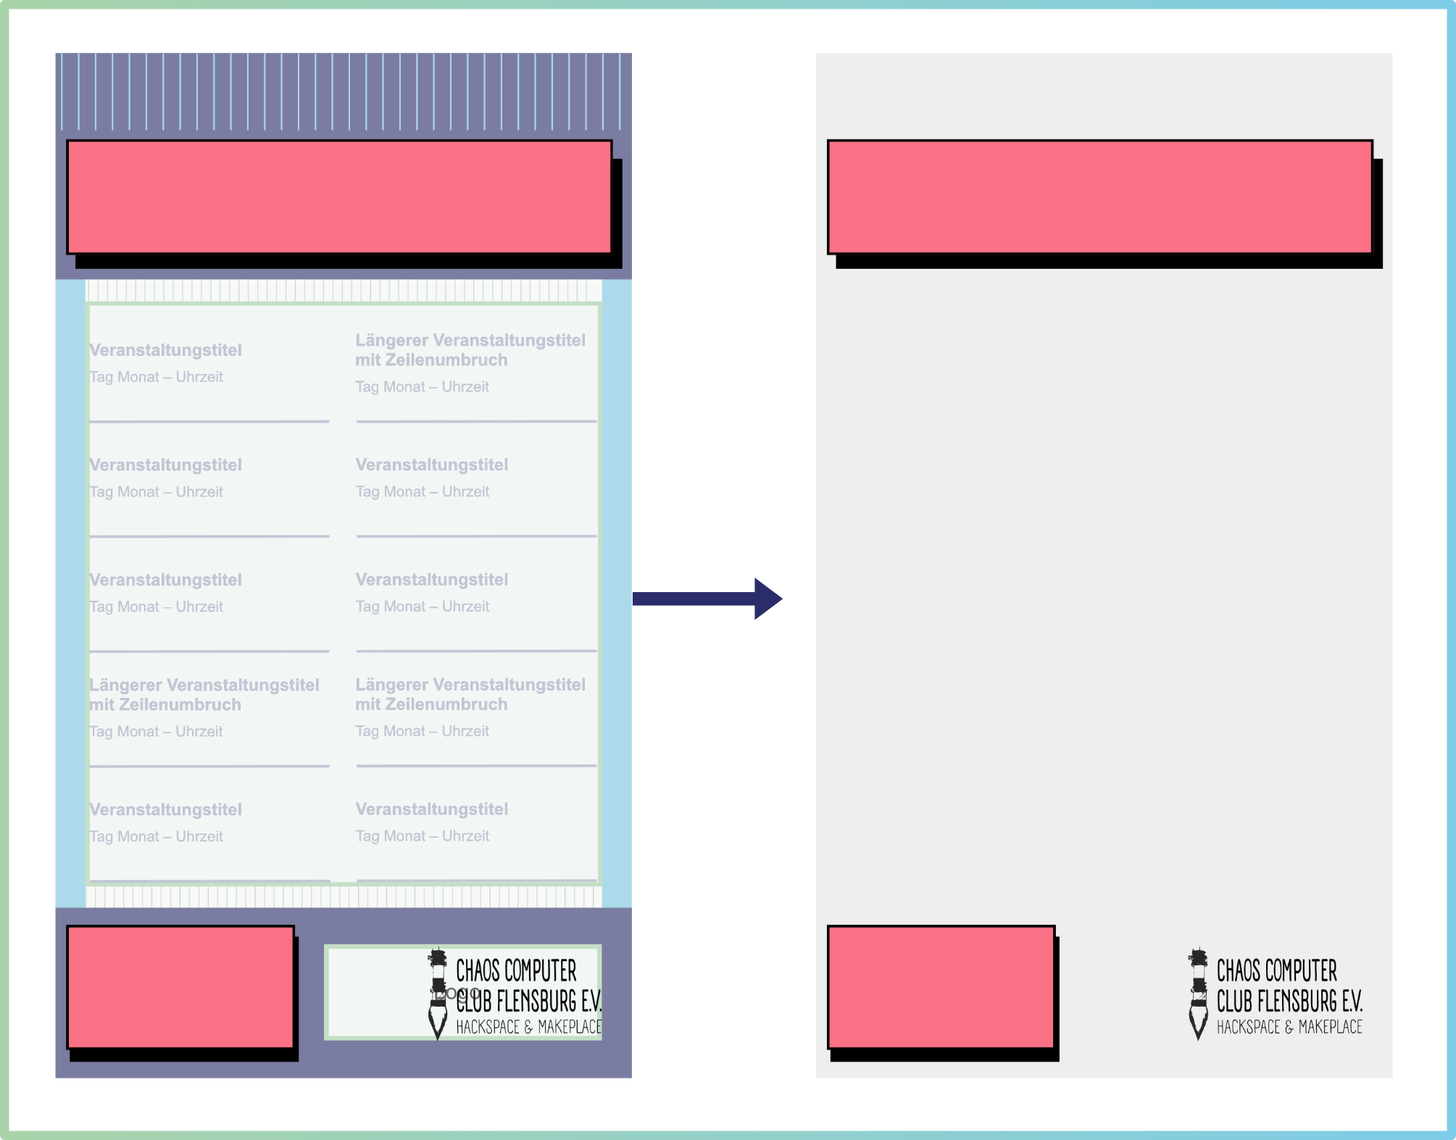
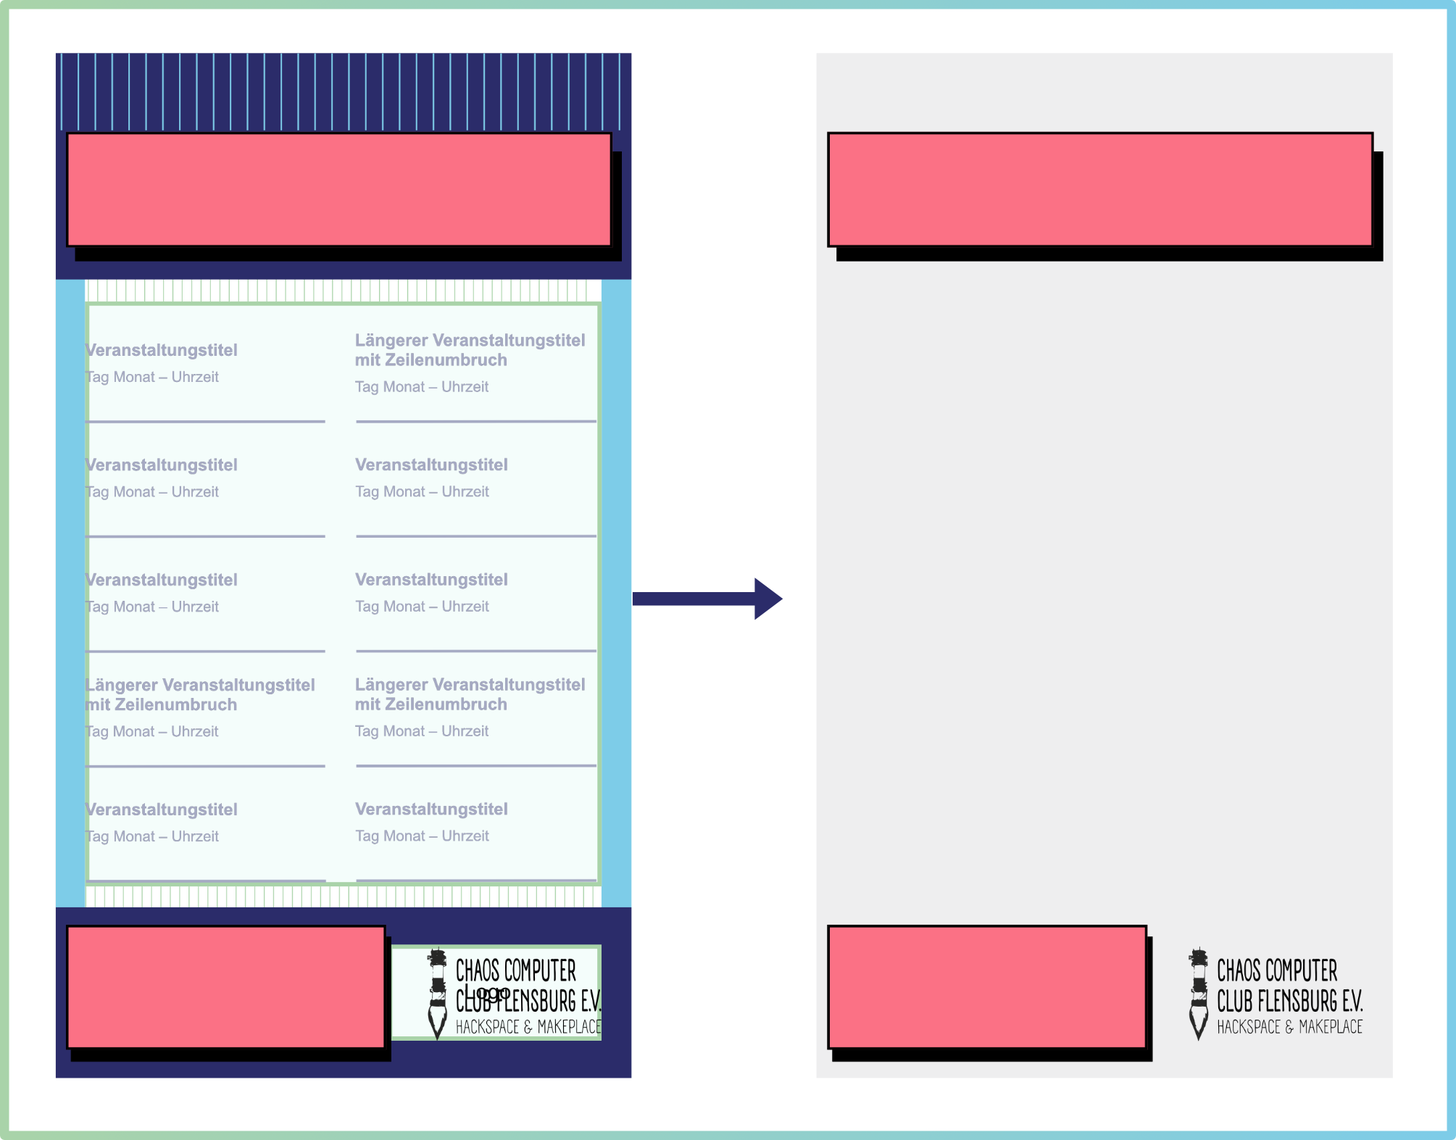
Ergänzung von Vorlagen, Gestaltungsrichtlinien und

diff --git a/docs/Werbemittelgenerator/README.md b/docs/Werbemittelgenerator/README.md
@@ -1,6 +1,6 @@
 [« Zurück](/get-started)
 # Werbemittelgenerator
-Mit dem Werbemittelgenerator können Sie visuelle Ankündigungen für Ihre Veranstaltungen erstellen – ideal zum Teilen in den sozialen Medien. Dies ist nicht nur ein effizienter Weg Werbemittel zu erstellen, durch die direkte Übernahme der Veranstaltungsinformationen vermeiden Sie auch Fehlerquellen bei der Informationsübertragung.
+Mit dem Werbemittelgenerator können Sie visuelle Ankündigungen für Ihre Veranstaltungen erstellen – ideal zum Teilen in den sozialen Medien und auf digitalen Anzeigen. Dies ist nicht nur ein effizienter Weg Werbemittel zu erstellen, durch die direkte Übernahme der Veranstaltungsinformationen vermeiden Sie auch Fehlerquellen bei der Informationsübertragung.
 
 Dieser Dokumentationsbereich führt Sie Schritt für Schritt durch die Funktionen und Gestaltungsmöglichkeiten.
 
@@ -38,7 +38,7 @@ Mit dem **Werbemittelgenerator für Veranstaltungsübersichten** können Sie bis
 Der Generator bietet verschiedene Optionen, um Ihre Übersicht individuell zu gestalten. Sofern Designvorgaben Ihrer Organisation im [Markenkit](#markenkit) hinterlegt wurden, werden diese automatisch geladen.
 
 1. **Format:**  
-   Wählen Sie zunächst das gewünschte Format – Social-Media-Post oder Story.
+   Wählen Sie zunächst das gewünschte Format – Social-Media-Post, Story oder Full DH.
 
 2. **Zeitraum:**  
    Definieren Sie den Zeitraum, für den die Veranstaltungen angezeigt werden sollen.  
@@ -55,7 +55,7 @@ Der Generator bietet verschiedene Optionen, um Ihre Übersicht individuell zu ge
    Alternativ können Logos auch direkt im Hintergrundbild frei platziert werden.
 
 5. **Überschrift (optional):**  
-   - Direkt im generator kann eine Überschrift eintragen werden. Das kann insbesondere sinnvoll sein, wenn Sie den Monat oder die Woche der Veranstaltungsübersicht in den Titel integrieren und sich dieser mit jeder Nutzung ändert.  
+   - Direkt im Generator kann eine Überschrift eintragen werden. Das kann insbesondere sinnvoll sein, wenn Sie den Monat oder die Woche der Veranstaltungsübersicht in den Titel integrieren und sich dieser mit jeder Nutzung ändert.  
    -  Sie können die **Textfarbe** anpassen, indem Sie auf das Farbsymbol klicken. Die Farbe kann über die Palette gewählt werden oder Sie fügen die RGB-, HEX- oder HSL-Werte der gewünschten Farbe ein. Sie können das Format über den Pfeil neben der Formatangabe ändern.
    <img src="./Bilder/Farbanpassung.png" alt="Beispiel Ausrichtungsprozess einer Veranstaltungsübersicht im Story-Format für den Chaos Computer Club Flensburg e. V. und entfernen der Vorlage vor dem Herunterladen" style="width:200px;">
    - Zudem können Sie aus verschiedenen **Schriftarten** wählen.
@@ -108,25 +108,35 @@ Wir empfehlen, mit einer passenden Positionierungvorlage zu arbeiten, an welcher
 **Positionierungsvorlagen für Veranstaltungsübersichten**
 * [PNG-Positionierungsvorlage für Social-Media-Beitröge herunterladen](/vorlagen/veranstaltungsuebersicht_ig_post_1080x1350.png)
 * [PNG-Positionierungsvorlage für Social-Media-Storys herunterladen](/vorlagen/veranstaltungsuebersicht_ig_story_1080x1920.png)
+* [PNG-Positionierungsvorlage für Full DH herunterladen](/vorlagen/veranstaltungsuebersicht_HD.png)
 
 
 **Positionierungsvorlagen für einzelne Veranstaltungsankündigungen**
 * [PNG-Positionierungsvorlage für Social-Media-Beiträge herunterladen](/vorlagen/veranstaltungsankuendigung_ig_post_1080x1350.png)
 * [PNG-Positionierungsvorlage für Social-Media-Storys herunterladen](/vorlagen/veranstaltungsankuendigung_ig_story_1080x1920.png)
+* [PNG-Positionierungsvorlage für Full DH herunterladen](/vorlagen/veranstaltungsankuendigung_HD.png)
 
 ### Hintergründe für Veranstaltungsübersichten gestalten
 
-Beim Generieren von Veranstaltungsübersichten werden **bis zu 10 Veranstaltungen** Ihrer Organisation im Bereich Veranstaltungsübersicht angezeigt. Sie haben aktuell die Möglichkeit zwischen den Formaten **Social-Media-Beitrag** (1080 x 1350 px) und **Social-Media-Story** (1080 x 1920 px) zu wählen. Diese können auf den gängigen Plattformen wie Instagram, WhatsApp & Co. veröffentlicht werden.
+Beim Generieren von Veranstaltungsübersichten werden **bis zu 10 Veranstaltungen** Ihrer Organisation im Bereich Veranstaltungsübersicht angezeigt. Sie haben aktuell die Möglichkeit zwischen den folgenden Formaten zu wählen:
+* **Social-Media-Beitrag** (1080 x 1350 px)
+* **Social-Media-Story** (1080 x 1920 px) 
+* **Full DH** (1920 x 1080 px).
+
+Diese eignen sich ideal für die gängigen Plattformen wie Instagram, WhatsApp & Co sowie digitale Anzeigetafeln.
 
 **Wichtig:** Sie sind grundsätzlich frei in der Gestaltung der Hintergründe, sollten jedoch unbedingt die [barrierefreien Gestaltungsprinzipien](/Barrierefreiheit/) berücksichtigen. 
 
 Nachfolgend visualisieren die Gestaltungsvorlagen, wie unser Generator die Inhalte platziert.
 
-**Social-Media-Beitrag (1080 x 1350 px) – Veranstaltungsübersicht**:
+#### Social-Media-Beitrag (1080 x 1350 px) – Veranstaltungsübersicht
  ![Gestaltungsrichtlinie für die Hintergrunderstellung für Veranstaltungsübersichten (Beitragsformat 1080 × 1350 px). Der Seitenrand beträgt links und rechts 56 px. Der Titelbereich ganz oben hat eine Höhe von 280 px. Zwischen Titelbereich und der Übersicht liegt ein Abstand von 40 px. Die Höhe der Veranstaltungsübersicht beträgt 766 px (maximal 10 Veranstaltungen werden angezeigt). Darunter folgt ein Abstand von 40 px zum 224 px hohen Kontaktbereich. Im Kontaktbereich ist links ausgerichtet Platz für die Organisationsinformationen, rechts ausgerichtet ist Platz für ein Logo mit einer Maximalhöhe von 180 px und einer Maximalbreite von 400 px.](./Bilder/VU%20Post.png)
 
-**Social-Media-Story (1080 x 1920 px) – Veranstaltungsübersicht**:
-![Gestaltungsrichtlinie für die Hintergrunderstellung für Veranstaltungsübersichten (Story-Format 1080 × 1920 px). Der Seitenrand beträgt links und rechts 56 px. Der obere Bereich mit Höhe 144 px wird für die Anzeige des Profilnamens freigelassen. Darunter liegt der Titelbereich mit 1080 px Höhe. Zwischen Titelbereich und der Übersicht liegt ein Abstand von 40 px. Die Höhe der Veranstaltungsübersicht beträgt 1096 px (maximal 10 Veranstaltungen werden angezeigt). Darunter folgt ein Abstand von 40 px zum 320px hohen Kontaktbereich. Im Kontaktbereich ist links ausgerichtet Platz für die Organisationsinformationen, rechts ausgerichtet ist Platz für ein Logo mit einer Maximalhöhe von 180 px und einer Maximalbreite von 400 px.](./Bilder/VU%20Story.png)
+#### Social-Media-Story (1080 x 1920 px) – Veranstaltungsübersicht
+![Gestaltungsrichtlinie für die Hintergrunderstellung für Veranstaltungsübersichten (Story-Format 1080 × 1920 px). Der Seitenrand beträgt links und rechts 56 px. Der obere Bereich mit Höhe 144 px wird für die Anzeige des Profilnamens freigelassen. Darunter liegt der Titelbereich mit 424 px Höhe. Zwischen Titelbereich und der Übersicht liegt ein Abstand von 40 px. Die Höhe der Veranstaltungsübersicht beträgt 1096 px (maximal 10 Veranstaltungen werden angezeigt). Darunter folgt ein Abstand von 40 px zum 320px hohen Kontaktbereich. Im Kontaktbereich ist links ausgerichtet Platz für die Organisationsinformationen, rechts ausgerichtet ist Platz für ein Logo mit einer Maximalhöhe von 180 px und einer Maximalbreite von 400 px.](./Bilder/VU%20Story.png)
+
+#### Full DH (1920 x 1080 px) – Veranstaltungsübersicht
+![Gestaltungsrichtlinie für die Hintergrunderstellung für Veranstaltungsübersichten (Full HD 1080 × 1920 px). Der Seitenrand beträgt links und rechts 120 px; oben und unten 56 px. Der Titelbereich ist 236 px hoch und 1280 px breit. Rechts daneben ist Platz für das Logo mit 400 px Breite und 180 px Höhe. Unter dem Headerbereich liegt die Veranstaltungsübersicht mit den Maßen 766 px und einer Breite von 958 px (maximal 10 Veranstaltungen werden angezeigt). Rechts daneben ist mit einem horizintalen Abstand von 56 px Platz für ein Bild mit 666 x 610 px. Darunter folgt der 666 px Breite und der 178 Hohe Kontaktbereich. ](./Bilder/VU%20HD.png)
 
 **Hinweise:**
 Sie können eine Überschrift und/oder Ihr Logo in die Hintergrundvorlage integrieren. Alternativ kann der **Titel** direkt im Generator bearbeitet werden. Ihr **Logo** wird im Bereich *Organisation* gespeichert, welches Optional in den Werbemitteln sichbar gemacht werden kann. Wenn Überschrift und/ oder Logo über den Generator hinzugefügt werden sollen, lassen Sie diese Bereiche Ihres Hintergrundes einfach frei.
@@ -135,20 +145,27 @@ Da die Veranstaltungsübersichten sehr text- und informationslastig sind, empfeh
 
 ### Ankündigungen für eine einzelne Veranstaltung
 
-Sie können auch für eine einzelne Veranstaltung ein Werbemittel erstellen. Auch hier kann zwischen den Formaten **Social-Media-Beitrag** (1080 x 1350 px) und **Social-Media-Story** (1080 x 1920 px) gewählt werden. 
+Sie können auch für eine einzelne Veranstaltung ein Werbemittel erstellen. Auch hier kann zwischen den folgenden Formaten gewählt werden: 
+* **Social-Media-Beitrag** (1080 x 1350 px)
+* **Social-Media-Story** (1080 x 1920 px) 
+* **Full DH** (1920 x 1080 px). 
 
 **Wichtig:** Bei der Gestaltung der Hintergründe sollten unbedingt die [barrierefreien Gestaltungsprinzipien](/Barrierefreiheit/) berücksichtigt werden. 
 
 Nachfolgend visualisieren die Gestaltungsvorlagen, wie unser Generator die Inhalte platziert.
 
-**Social-Media-Beitrag (1080 x 1350 px) – Veranstaltungsankündigung:**
+#### Social-Media-Beitrag (1080 x 1350 px) – Veranstaltungsankündigung
 
- ![Gestaltungsrichtlinie für die Hintergrunderstellung für Ankündigungen einer einzelnen Veranstaltung (Beitragsformat 1080 × 1350 px). Der Seitenrand beträgt rundherum 56 px. Rechts oben am Seitenrand ausgerichtet ist ein Logo mit einer Maximalhöhe von 180 px und einer Maximalbreite von 400 px vorgesehen. Ganz links sowie am unteren Seitenrand ausgerichtet ist ein Textinformationsblock mit den Maßen 800 px x 600 px. Der Text in dem Block sollte links am Seitenrand ausgerichtet werden](./Bilder/EZ%20Post.png)
+ ![Gestaltungsrichtlinie für die Hintergrunderstellung für Ankündigungen einer einzelnen Veranstaltung (Beitragsformat 1080 × 1350 px). Der Seitenrand beträgt rundherum 56 px. Rechts oben am Seitenrand ausgerichtet ist ein Logo mit einer Maximalhöhe von 180 px und einer Maximalbreite von 400 px vorgesehen. Ganz links sowie am unteren Seitenrand ausgerichtet ist ein Textinformationsblock mit den Maßen 800 px x 600 px.](./Bilder/EZ%20Post.png)
 
 
- **Social-Media-Story (1080 x 1920 px) – Veranstaltungsankündigung:**
+ #### Social-Media-Story (1080 x 1920 px) – Veranstaltungsankündigung
 
- ![Gestaltungsrichtlinie für die Hintergrunderstellung für Ankündigungen einer einzelnen Veranstaltung (Story-Format 1080 × 1920 px). Der Seitenrand beträgt links und rechts 56 px. Der obere Bereich mit Höhe 144 px wird für die Anzeige des Profilnamens freigelassen. Darunter am Seitenrand ausgerichtet ist ein Logo mit einer Maximalhöhe von 180 px und einer Maximalbreite von 400 px vorgesehen. Ganz links ausgerichtet mit 192 px Abstand vom unteren Rand ist ein Textinformationsblock mit den Maßen 800 px x 800 px. Der Text in dem Block sollte links am Seitenrand ausgerichtet werden](./Bilder/EZ%20Story.png)
+ ![Gestaltungsrichtlinie für die Hintergrunderstellung für Ankündigungen einer einzelnen Veranstaltung (Story-Format 1080 × 1920 px). Der Seitenrand beträgt links und rechts 56 px. Der obere Bereich mit Höhe 144 px wird für die Anzeige des Profilnamens freigelassen. Darunter am Seitenrand ausgerichtet ist ein Logo mit einer Maximalhöhe von 180 px und einer Maximalbreite von 400 px vorgesehen. Ganz links ausgerichtet mit 192 px Abstand vom unteren Rand ist ein Textinformationsblock mit den Maßen 800 px x 800 px.](./Bilder/EZ%20Story.png)
+
+  #### Full DH (1920 x 1080 px) – Veranstaltungsankündigung
+
+ ![Gestaltungsrichtlinie für die Hintergrunderstellung für Ankündigungen einer einzelnen Veranstaltung (Full DH 1920 × 1080 px). Der Seitenrand beträgt links und rechts 120 px; oben und unten 56 px. Rechts oben am Seitenrand ausgerichtet ist ein Logo mit einer Maximalhöhe von 180 px und einer Maximalbreite von 400 px vorgesehen. Links unten am Seitenrand ausgerichtet ist ein Textinformationsblock mit den Maßen 800 px x 720 px.](./Bilder/EZ%20HD.png)
 
  **Hinweise:**
   Das Logo kann grundsätzlich frei auf dem Hintergrund platziert werden. Wenn das Logo über den Generator hinzugefügt werden soll, lassen Sie diese Bereiche Ihres Hintergrundes einfach frei. Ihr **Logo** hinterlegen Sie im Bereich *Organisation*. Es kann dann Optional in den Werbemitteln sichbar gemacht werden kann. 
@@ -174,19 +191,19 @@ Sie entsprechen unseren [Gestaltungsrichtlinien für Hintergründe](#richtlinien
 
 ### Hintergründe für Veranstaltungsübersichten
 
-| Beitrags-Vorschau | Story-Vorschau|
-|----------|-----------|
-| <img src="./Bilder/VU_Hintergrund/DSG%20Beitrag%20Veranstaltungsübersicht.png" alt="Hintergrund Beitrag. Header und Footer jeweils Mintgrün. Der Bereich dür die Veranstaltungsinformationen ist weiß. Zwischen Mintgrün und weiß ist jeweils ein Strich mit grün-blauem Farbverlauf" style="width:100px;"> [Herunterladen](/Werbemittelgenerator/Bilder/VU_Hintergrund/DSG%20Beitrag%20Veranstaltungsübersicht.png)| <img src="./Bilder/VU_Hintergrund/DSG%20Story%20Veranstaltungsübersicht.png" alt="Hintergrund Story. Header und Footer jeweils Mintgrün. Der Bereich dür die Veranstaltungsinformationen ist weiß. Zwischen Mintgrün und weiß ist jeweils ein Strich mit grün-blauem Farbverlauf" style="width:100px;"> [Herunterladen](/Werbemittelgenerator/Bilder/VU_Hintergrund/DSG%20Story%20Veranstaltungsübersicht.png) 
+| Beitrags-Vorschau | Story-Vorschau| Full-HD-Vorschau |
+|----------|-----------|----|
+| <img src="./Bilder/VU_Hintergrund/DSG%20Beitrag%20Veranstaltungsübersicht.png" alt="Hintergrund Beitrag. Header und Footer jeweils Mintgrün. Der Bereich für die Veranstaltungsinformationen ist weiß. Zwischen Mintgrün und weiß ist jeweils ein Strich mit grün-blauem Farbverlauf" style="width:100px;"> [Herunterladen](/Werbemittelgenerator/Bilder/VU_Hintergrund/DSG%20Beitrag%20Veranstaltungsübersicht.png)| <img src="./Bilder/VU_Hintergrund/DSG%20Story%20Veranstaltungsübersicht.png" alt="Hintergrund Story. Header und Footer jeweils Mintgrün. Der Bereich für die Veranstaltungsinformationen ist weiß. Zwischen Mintgrün und weiß ist jeweils ein Strich mit grün-blauem Farbverlauf" style="width:100px;"> [Herunterladen](/Werbemittelgenerator/Bilder/VU_Hintergrund/DSG%20Story%20Veranstaltungsübersicht.png) |<img src="./Bilder/VU_Hintergrund/DSG%20HD%20Veranstaltungsübersicht.png" alt="Hintergrund Full HD. Header und Organisationsbereich jeweils Mintgrün. Der Bereich für die Veranstaltungsinformationen ist weiß. Zwischen Mintgrün und weiß ist jeweils ein Strich mit grün-blauem Farbverlauf. Rechts ist ein Foto eines Papier-Kalenders" style="width:100px;"> [Herunterladen](/Werbemittelgenerator/Bilder/VU_Hintergrund/DSG%20HD%20Veranstaltungsübersicht.png)
 
 ### Hintergründe für Akündigungen einzelner Veranstaltungen
 
-| Kategorie | Beitrags-Vorschau | Story-Vorschau|
-|---------------------------|----------|-----------|
-| Kultur & Kreatives | <img src="./Bilder/EA_Hintergrund_Beitrag/Kultur_Kreatives.png" alt="Hintergrund Beitrag Kultur & Kreatives mit vielen fliegenden Regenschirmen in verschiedenen Farben" style="width:100px;"> [Herunterladen](/Werbemittelgenerator/Bilder/EA_Hintergrund_Beitrag/Kultur_Kreatives.png) | <img src="./Bilder/EA_Hintergrund_Story/Kultur_Kreatives.png" alt="Hintergrund Story Kultur & Kreatives mit vielen fliegenden Regenschirmen in verschiedenen Farben" style="width:100px;"> [Herunterladen](/Werbemittelgenerator/Bilder/EA_Hintergrund_Story/Kultur_Kreatives.png) | [Story herunterladen](/vorlagen/hg_kultur_story.png)
-| Gemeinschaft & Engagement | <img src="./Bilder/EA_Hintergrund_Beitrag/Gemeinschaft_Engagement.png" alt="Hintergrund Beitrag Gemeinschaft & Engagement mit vielen Händen, die gemeinsam eine Pflanze halten" style="width:100px;"> [Herunterladen](/Werbemittelgenerator/Bilder/EA_Hintergrund_Beitrag/Gemeinschaft_Engagement.png) | <img src="./Bilder/EA_Hintergrund_Story/Gemeinschaft_Engagement.png" alt="Hintergrund Story Gemeinschaft & Engagement mit vielen Händen, die gemeinsam eine Pflanze halten" style="width:100px;"> [Herunterladen](/Werbemittelgenerator/Bilder/EA_Hintergrund_Story/Gemeinschaft_Engagement.png) | [Story herunterladen](/vorlagen/hg_kultur_story.png)
-| Familie & Freizeit | <img src="./Bilder/EA_Hintergrund_Beitrag/Familie_Freizeit.png" alt="Hintergrund Beitrag Familie & Freizeit. Zwei Eltern die ihre Tochter in die Luft halten. Sie sind auf einer Wiese, im Hintergrund ist ein Walr und alle sind glücklich" style="width:100px;"> [Herunterladen](/Werbemittelgenerator/Bilder/EA_Hintergrund_Beitrag/Familie_Freizeit.png) | <img src="./Bilder/EA_Hintergrund_Story/Familie_Freizeit.png" alt="Hintergrund Story Familie & Freizeit. Zwei Eltern die ihre Tochter in die Luft halten. Sie sind auf einer Wiese, im Hintergrund ist ein Walr und alle sind glücklich" style="width:100px;"> [Herunterladen](/Werbemittelgenerator/Bilder/EA_Hintergrund_Story/Familie_Freizeit.png) | [Story herunterladen](/vorlagen/Familie_Freizeit.png)
-| Gesundheit & Bewegung | <img src="./Bilder/EA_Hintergrund_Beitrag/Gesundheit_Bewegung.png" alt="Hintergrund Beitrag Gesundheit & Bewegung. 2 juge Männer und eine junge Frau spielen draußen Fußball" style="width:100px;"> [Herunterladen](/Werbemittelgenerator/Bilder/EA_Hintergrund_Beitrag/Gesundheit_Bewegung.png) | <img src="./Bilder/EA_Hintergrund_Story/Gesundheit_Bewegung.png" alt="Hintergrund Story Gesundheit & Bewegung. 2 juge Männer und eine junge Frau spielen draußen Fußball" style="width:100px;"> [Herunterladen](/Werbemittelgenerator/Bilder/EA_Hintergrund_Story/Gesundheit_Bewegung.png) | [Story herunterladen](/vorlagen/Gesundheit_Bewegung.png)
-| Wirtschaft & Bildung | <img src="./Bilder/EA_Hintergrund_Beitrag/Wirtschaft_Bildung.png" alt="Hintergrund Beitrag Wirtschaft & Bildung. Ein Stapel mit vielen Büchern und einem verwommenen Hintergund der einen Blick durchs Fenster ins Grüne andeutet" style="width:100px;"> [Herunterladen](/Werbemittelgenerator/Bilder/EA_Hintergrund_Beitrag/Wirtschaft_Bildung.png) | <img src="./Bilder/EA_Hintergrund_Story/Wirtschaft_Bildung.png" alt="Hintergrund Story Wirtschaft & Bildung. Ein Stapel mit vielen Büchern und einem verwommenen Hintergund der einen Blick durchs Fenster ins Grüne andeutet" style="width:100px;"> [Herunterladen](/Werbemittelgenerator/Bilder/EA_Hintergrund_Story/Wirtschaft_Bildung.png) | [Story herunterladen](/vorlagen/Wirtschaft_Bildung.png)
+| Kategorie | Beitrags-Vorschau | Story-Vorschau| Full-HD-Vorschau|
+|------------------|----------|-----------|----|
+| Kultur & Kreatives | <img src="./Bilder/EA_Hintergrund_Beitrag/Kultur_Kreatives.png" alt="Hintergrund Beitrag Kultur & Kreatives mit vielen fliegenden Regenschirmen in verschiedenen Farben" style="width:100px;"> [Herunterladen](/Werbemittelgenerator/Bilder/EA_Hintergrund_Beitrag/Kultur_Kreatives.png) | <img src="./Bilder/EA_Hintergrund_Story/Kultur_Kreatives.png" alt="Hintergrund Story Kultur & Kreatives mit vielen fliegenden Regenschirmen in verschiedenen Farben" style="width:100px;"> [Herunterladen](/Werbemittelgenerator/Bilder/EA_Hintergrund_Story/Kultur_Kreatives.png) | <img src="./Bilder/EA_Hintergrund_HD/Kultur_Kreatives.png" alt="Hintergrund Full HD Kultur & Kreatives mit vielen fliegenden Regenschirmen in verschiedenen Farben" style="width:100px;"> [Herunterladen](/Werbemittelgenerator/Bilder/EA_Hintergrund_HD/Kultur_Kreatives.png) | 
+| Gemeinschaft & Engagement | <img src="./Bilder/EA_Hintergrund_Beitrag/Gemeinschaft_Engagement.png" alt="Hintergrund Beitrag Gemeinschaft & Engagement mit vielen Händen, die gemeinsam eine Pflanze halten" style="width:100px;"> [Herunterladen](/Werbemittelgenerator/Bilder/EA_Hintergrund_Beitrag/Gemeinschaft_Engagement.png) | <img src="./Bilder/EA_Hintergrund_Story/Gemeinschaft_Engagement.png" alt="Hintergrund Story Gemeinschaft & Engagement mit vielen Händen, die gemeinsam eine Pflanze halten" style="width:100px;"> [Herunterladen](/Werbemittelgenerator/Bilder/EA_Hintergrund_Story/Gemeinschaft_Engagement.png) | <img src="./Bilder/EA_Hintergrund_HD/Gemeinschaft_Engagement.png" alt="Hintergrund Full HD Gemeinschaft & Engagement mit vielen Händen, die gemeinsam kleine Pflanze halten" style="width:100px;"> [Herunterladen](/Werbemittelgenerator/Bilder/EA_Hintergrund_HD/Gemeinschaft_Engagement.png) |
+| Familie & Freizeit | <img src="./Bilder/EA_Hintergrund_Beitrag/Familie_Freizeit.png" alt="Hintergrund Beitrag Familie & Freizeit. Zwei Eltern die ihre Tochter in die Luft halten. Sie sind auf einer Wiese, im Hintergrund ist ein Walr und alle sind glücklich" style="width:100px;"> [Herunterladen](/Werbemittelgenerator/Bilder/EA_Hintergrund_Beitrag/Familie_Freizeit.png) | <img src="./Bilder/EA_Hintergrund_Story/Familie_Freizeit.png" alt="Hintergrund Story Familie & Freizeit. Zwei Eltern die ihre Tochter in die Luft halten. Sie sind auf einer Wiese, im Hintergrund ist ein Walr und alle sind glücklich" style="width:100px;"> [Herunterladen](/Werbemittelgenerator/Bilder/EA_Hintergrund_Story/Familie_Freizeit.png) | <img src="./Bilder/EA_Hintergrund_HD/Familie_Freizeit.png" alt="Hintergrund Full HD Familie & Freizeit. Ein Erwachsener mit einem Kind spazieren durch den Wald" style="width:100px;"> [Herunterladen](/Werbemittelgenerator/Bilder/EA_Hintergrund_HD/Familie_Freizeit.png) |
+| Gesundheit & Bewegung | <img src="./Bilder/EA_Hintergrund_Beitrag/Gesundheit_Bewegung.png" alt="Hintergrund Beitrag Gesundheit & Bewegung. 2 juge Männer und eine junge Frau spielen draußen Fußball" style="width:100px;"> [Herunterladen](/Werbemittelgenerator/Bilder/EA_Hintergrund_Beitrag/Gesundheit_Bewegung.png) | <img src="./Bilder/EA_Hintergrund_Story/Gesundheit_Bewegung.png" alt="Hintergrund Story Gesundheit & Bewegung. 2 juge Männer und eine junge Frau spielen draußen Fußball" style="width:100px;"> [Herunterladen](/Werbemittelgenerator/Bilder/EA_Hintergrund_Story/Gesundheit_Bewegung.png) | <img src="./Bilder/EA_Hintergrund_HD/Gesundheit_Bewegung.png" alt="Hintergrund Full HD Gesundheit & Bewegung. Mehrere fahrende professionelle Rennradfahrende" style="width:100px;"> [Herunterladen](/Werbemittelgenerator/Bilder/EA_Hintergrund_/Gesundheit_Bewegung.png) |
+| Wirtschaft & Bildung | <img src="./Bilder/EA_Hintergrund_Beitrag/Wirtschaft_Bildung.png" alt="Hintergrund Beitrag Wirtschaft & Bildung. Ein Stapel mit vielen Büchern und einem verwommenen Hintergund der einen Blick durchs Fenster ins Grüne andeutet" style="width:100px;"> [Herunterladen](/Werbemittelgenerator/Bilder/EA_Hintergrund_Beitrag/Wirtschaft_Bildung.png) | <img src="./Bilder/EA_Hintergrund_Story/Wirtschaft_Bildung.png" alt="Hintergrund Story Wirtschaft & Bildung. Ein Stapel mit vielen Büchern und einem verwommenen Hintergund der einen Blick durchs Fenster ins Grüne andeutet" style="width:100px;"> [Herunterladen](/Werbemittelgenerator/Bilder/EA_Hintergrund_Story/Wirtschaft_Bildung.png) | <img src="./Bilder/EA_Hintergrund_HD/Wirtschaft_Bildung.png" alt="Hintergrund Full HD Wirtschaft & Bildung. Ein volles Bücherregal" style="width:100px;"> [Herunterladen](/Werbemittelgenerator/Bilder/EA_Hintergrund_HD/Wirtschaft_Bildung.png) |
 
 
 ### Markenkit
